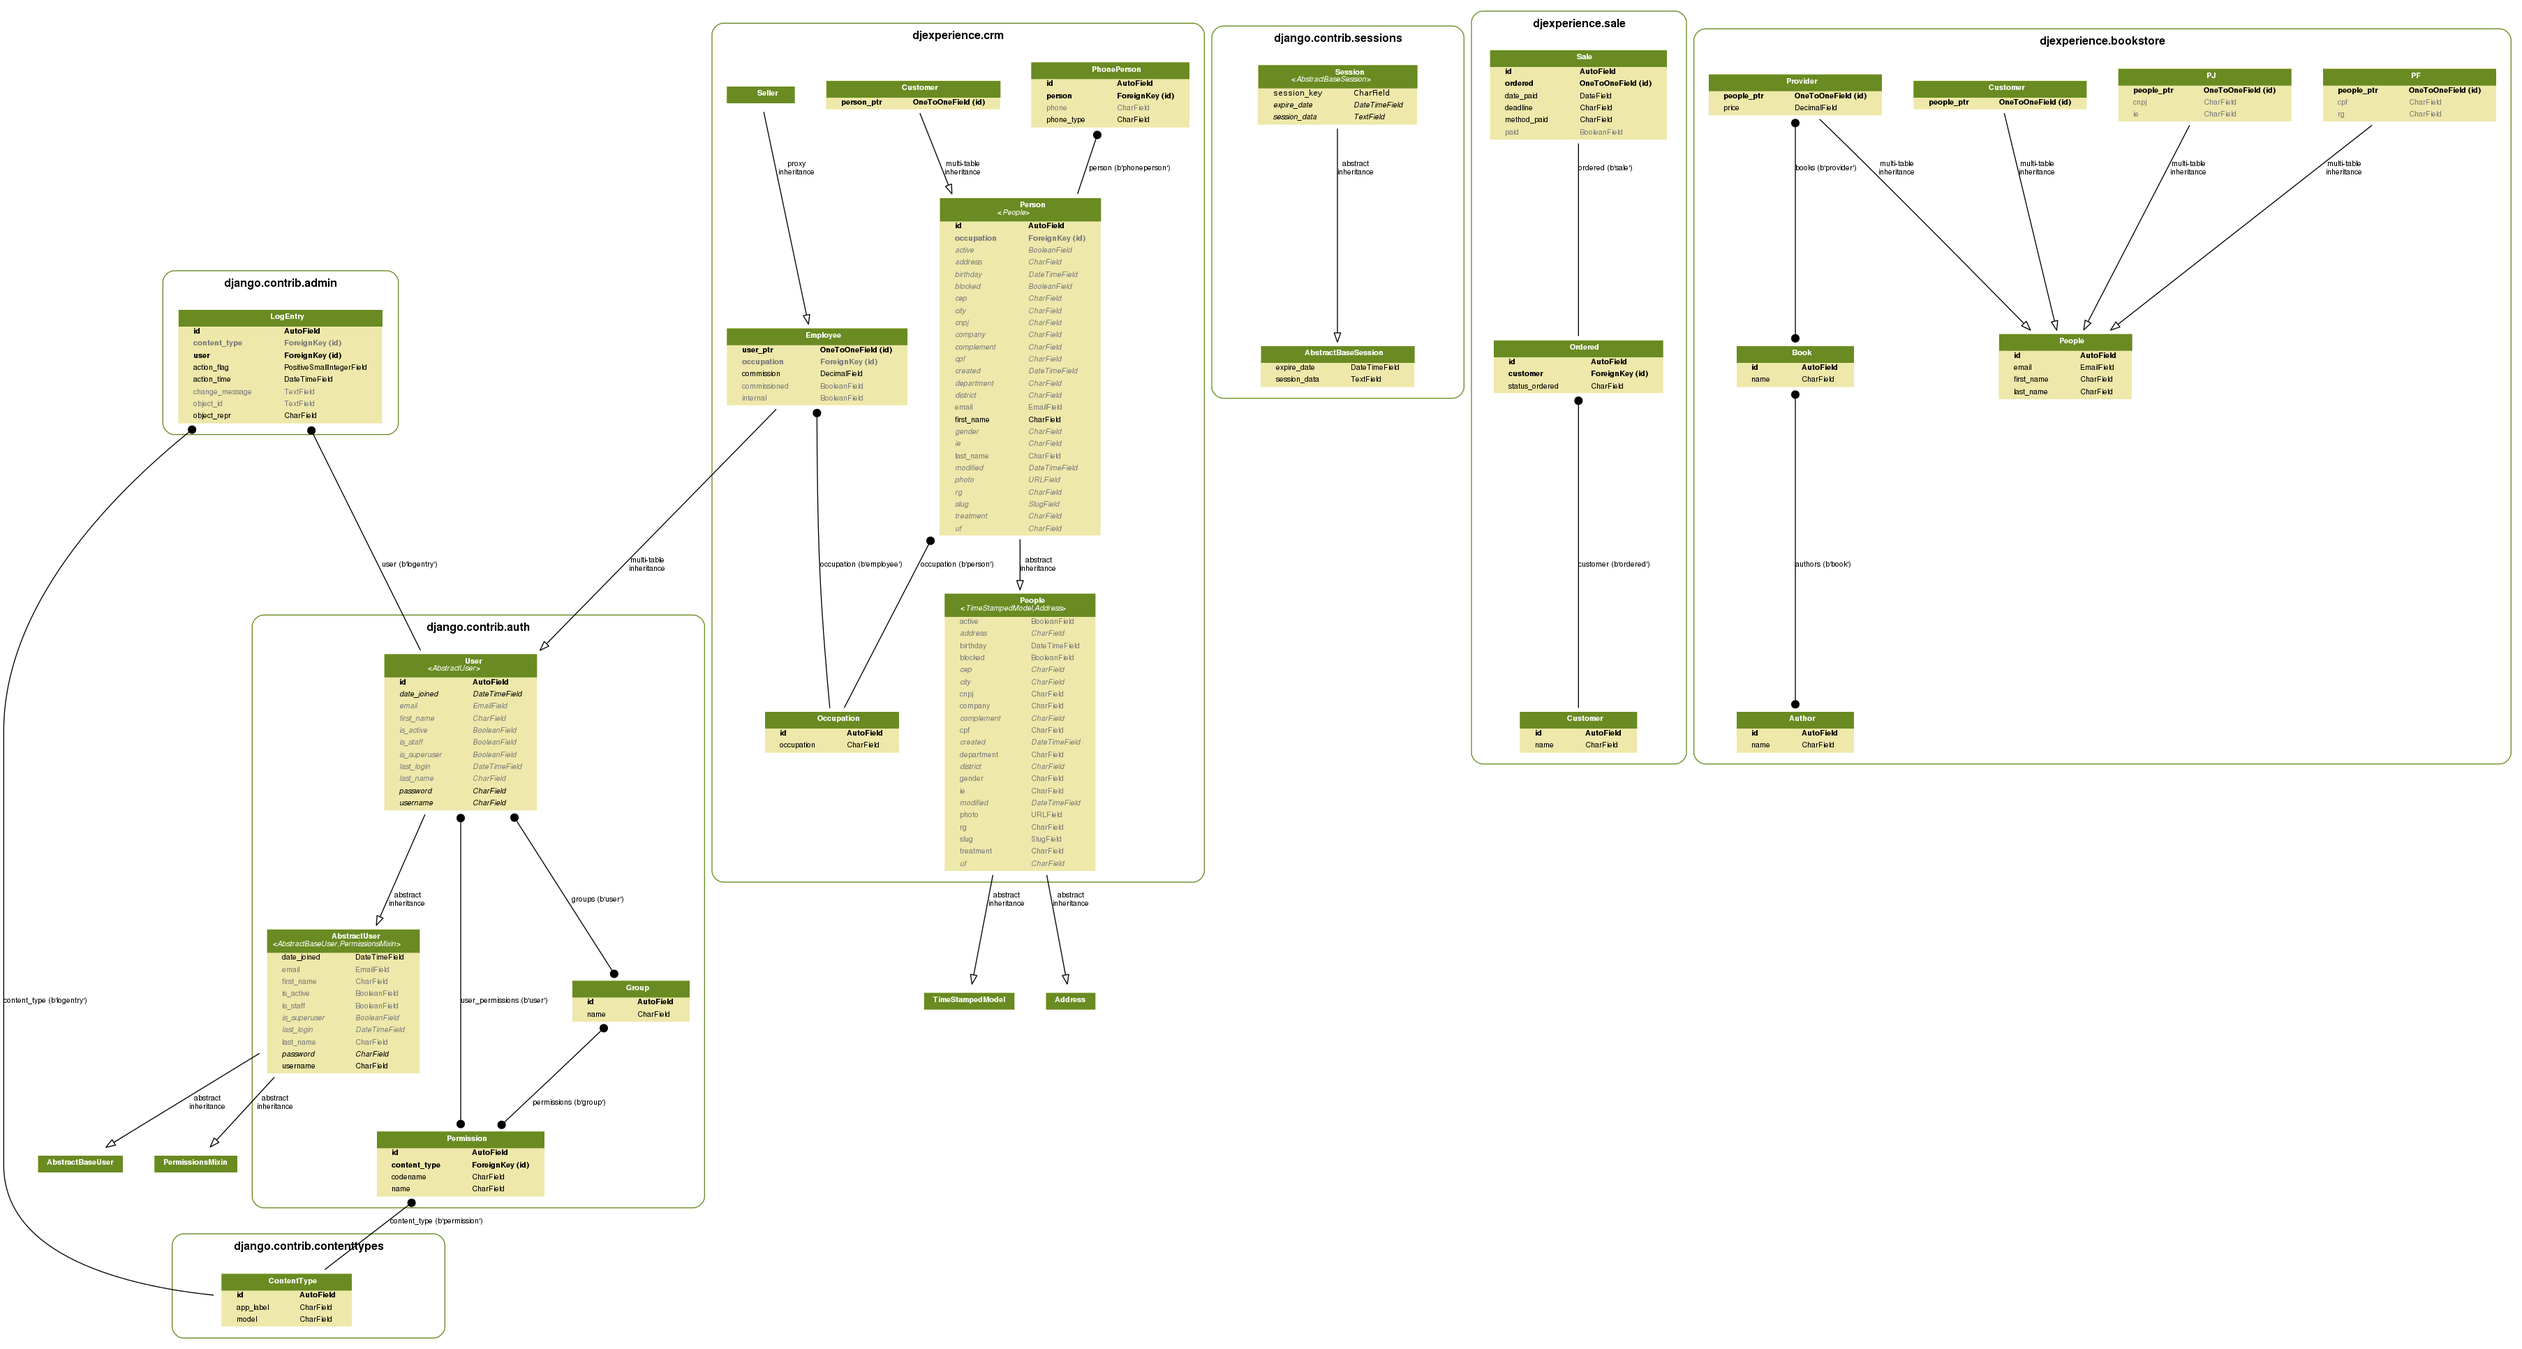
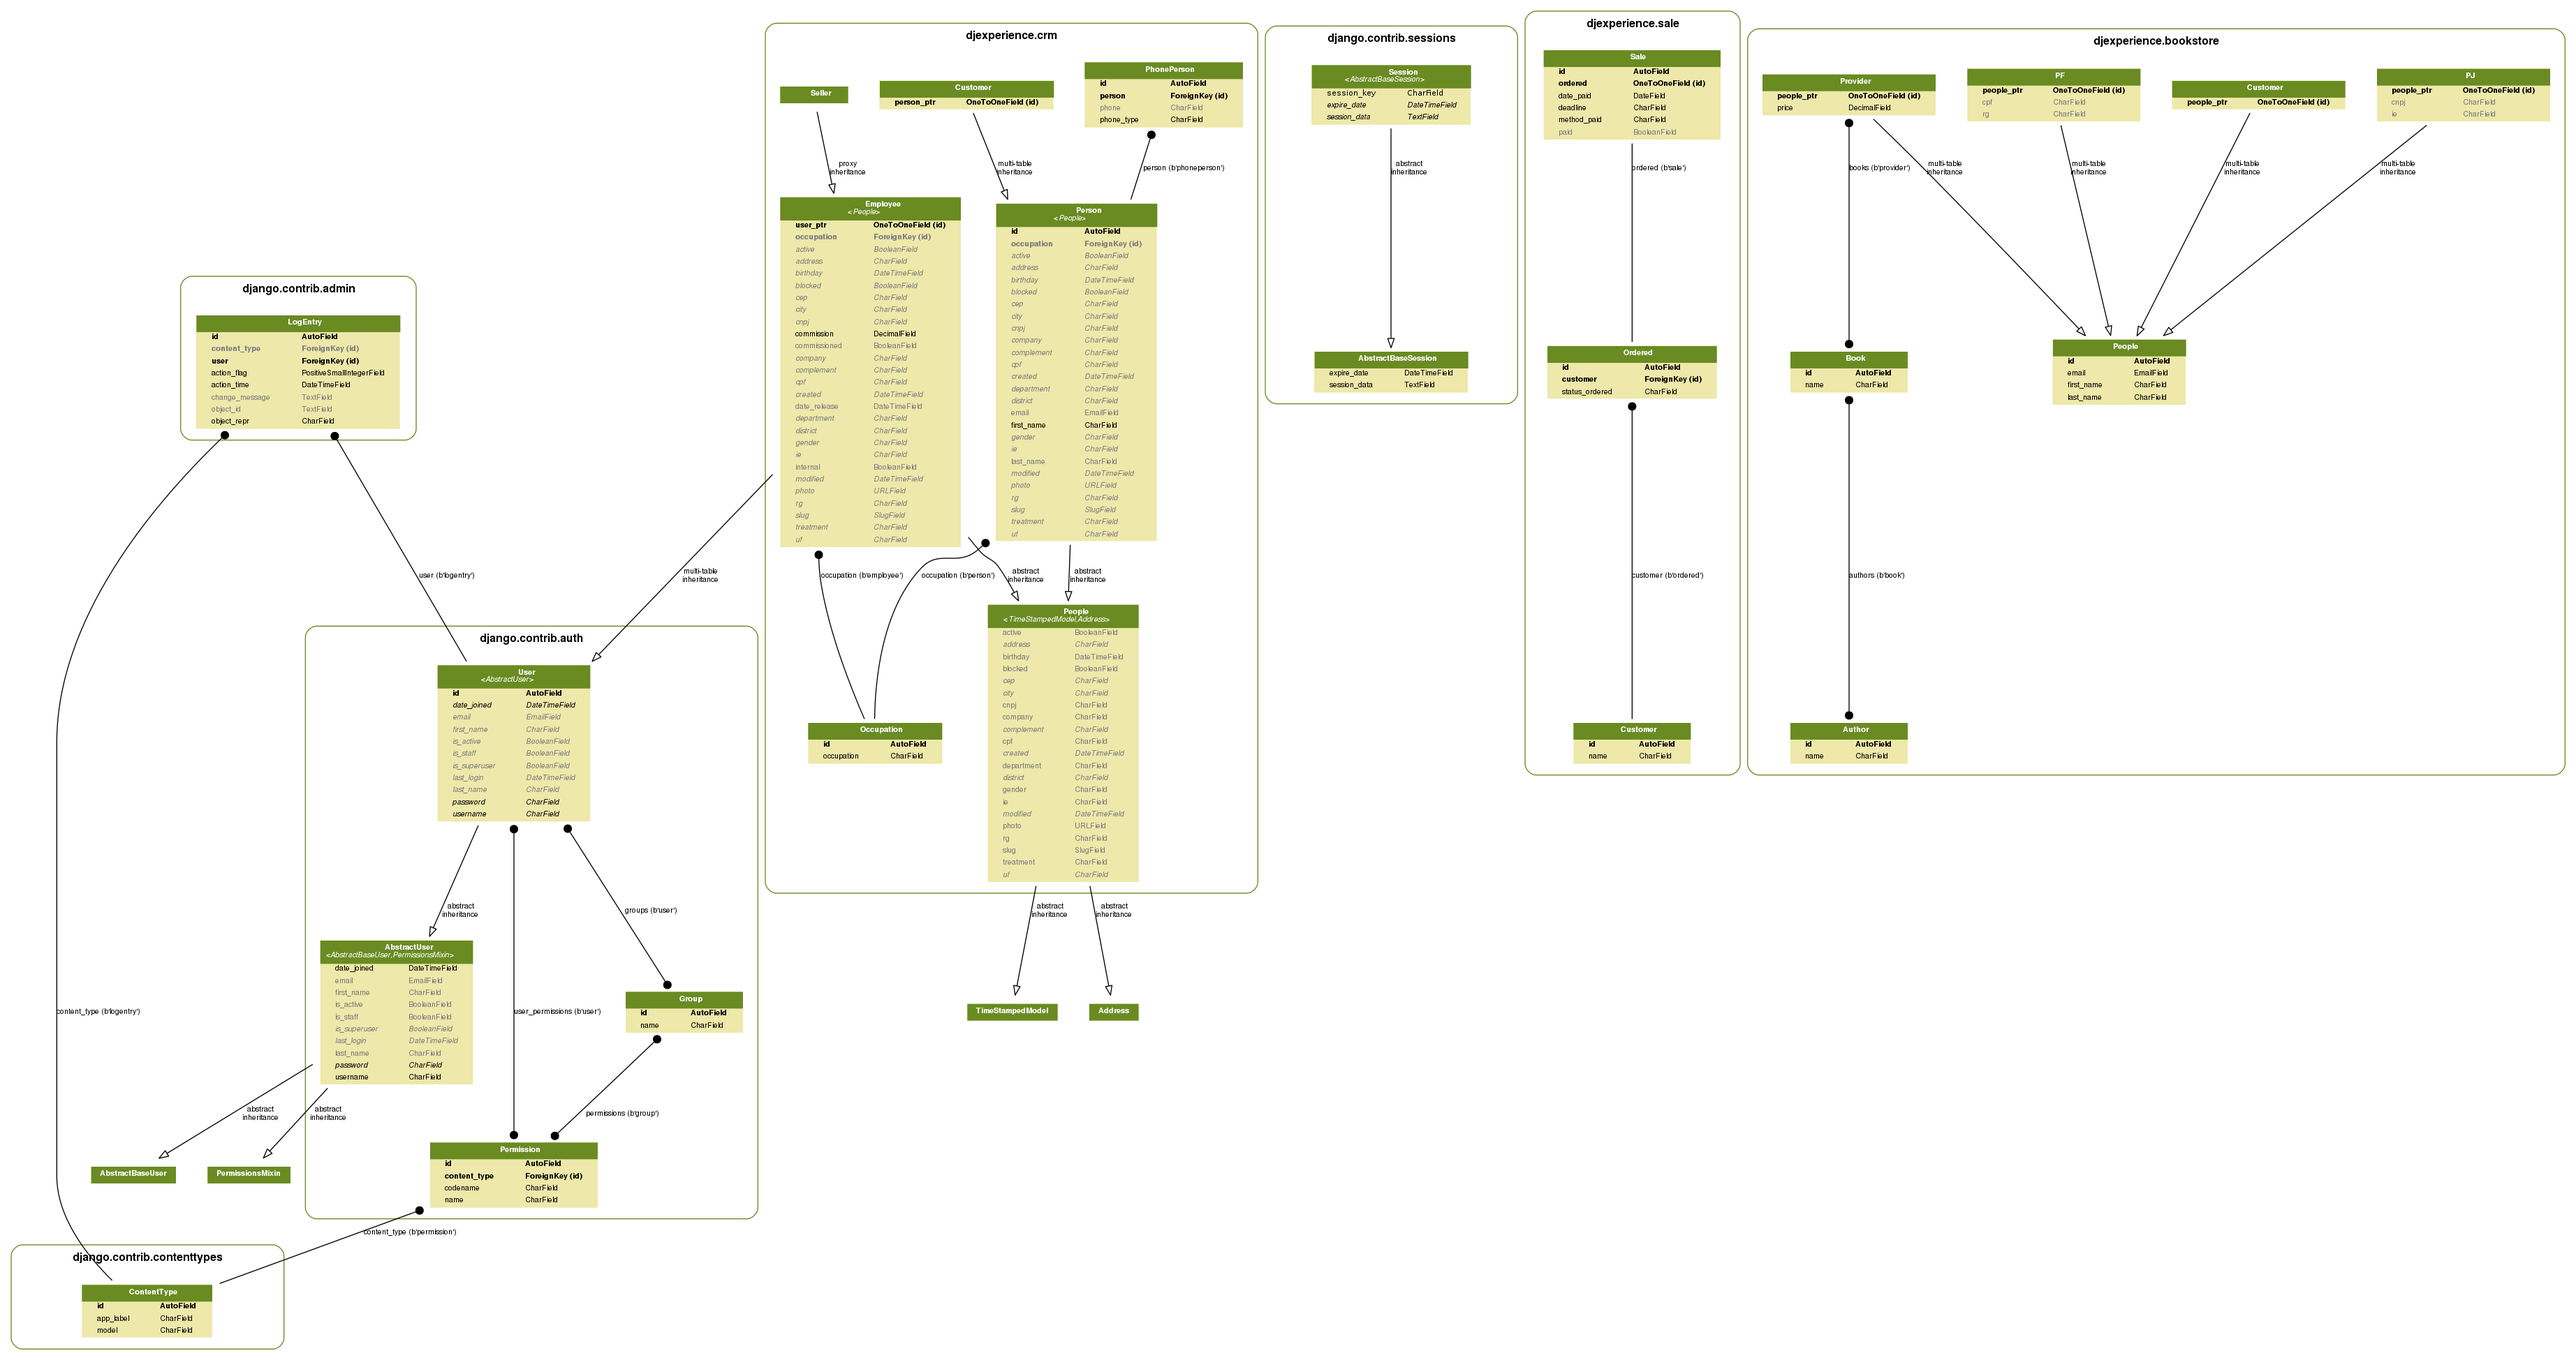
testes passando para employee

diff --git a/djexperience/crm/tests/data.py b/djexperience/crm/tests/data.py
@@ -1,11 +1,13 @@
 from django.utils import timezone
 
+hashpass = 'pbkdf2_sha256$12000$Pe4addAsDo1D$xEtHWLnSIVkEppr4pbK69SBhuLwWsSHdXyhkCZBNktA='
+
 USER_DICT = {
     'username': 'regis',
     'first_name': 'Regis',
     'last_name': 'Santos',
     'email': 'regis@example.com',
-    'password': 'demodemo',
+    'password': hashpass,
 }
 
 PERSON_DICT = {
@@ -31,9 +33,15 @@ PERSON_DICT = {
 }
 
 EMPLOYEE_DICT = {
+    'username': 'regis',
+    'first_name': 'Regis',
+    'last_name': 'Santos',
+    'email': 'regis@example.com',
+    'password': hashpass,
     'gender': 'M',
     'treatment': 'sr',
     'slug': 'regis',
+    'birthday': '1985-12-01 02:42:30+00:00',
     'company': 'Acme',
     'department': 'Tecnologia',
     'cpf': '28586897337',
@@ -45,6 +53,6 @@ EMPLOYEE_DICT = {
     'uf': 'GO',
     'cep': '74665841',
     'active': True,
-    'date_entry': timezone.now(),
+    'blocked': False,
     'date_release': timezone.now(),
 }

diff --git a/djexperience/crm/tests/test_model_employee.py b/djexperience/crm/tests/test_model_employee.py
@@ -1,17 +1,14 @@
 from datetime import datetime
 from django.test import TestCase
-from django.contrib.auth.models import User
 from djexperience.crm.models import Employee, Occupation
-from .data import USER_DICT, EMPLOYEE_DICT
+from .data import EMPLOYEE_DICT
 
 
 class EmployeeTest(TestCase):
 
     def setUp(self):
-        self.user = User.objects.create(**USER_DICT)
         self.occupation = Occupation.objects.create(occupation='Gerente')
         self.obj = Employee.objects.create(
-            user=self.user,
             occupation=self.occupation,
             **EMPLOYEE_DICT)
 
@@ -26,4 +23,4 @@ class EmployeeTest(TestCase):
         self.assertEqual('regis', str(self.obj))
 
     def test_ordering(self):
-        self.assertListEqual(['user__first_name'], Employee._meta.ordering)
+        self.assertListEqual(['username'], Employee._meta.ordering)

diff --git a/djexperience/crm/models.py b/djexperience/crm/models.py
@@ -61,13 +61,14 @@ class Customer(Person):
         verbose_name_plural = 'clientes'
 
 
-class Employee(User):
+class Employee(People, User):
     occupation = models.ForeignKey(
         'Occupation', verbose_name='cargo', null=True, blank=True)
     internal = models.BooleanField('interno', default=True)
     commissioned = models.BooleanField('comissionado', default=True)
     commission = models.DecimalField(
         'comissão', max_digits=6, decimal_places=2, default=0.01)
+    date_release = models.DateTimeField('data de saída', null=True, blank=True)
 
     class Meta:
         ordering = ['username']

diff --git a/dev/tables_django.md b/dev/tables_django.md
@@ -45,10 +45,10 @@
 
 **Employee(People, User)**
 * occupation (FK)
-* date_release
 * internal (bool)
 * commissioned (bool)
 * commission
+* date_release
 
 **PhoneEmployee**
 * phone
